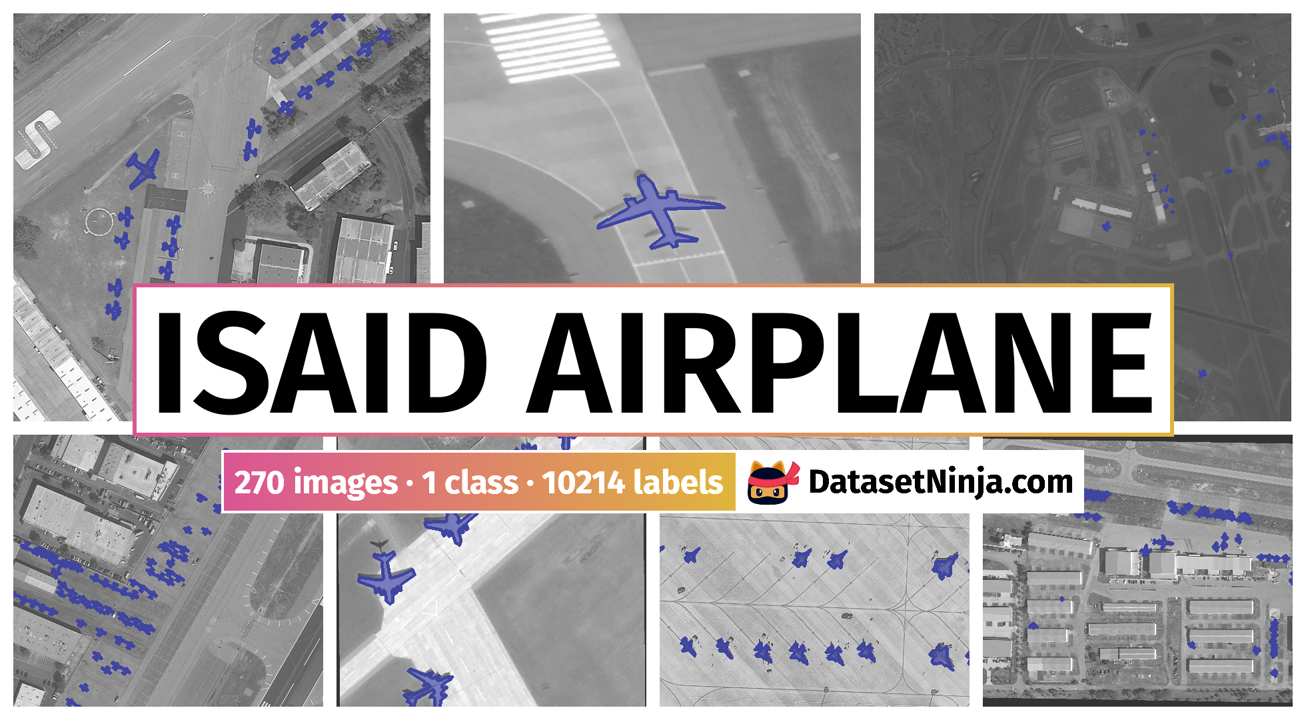
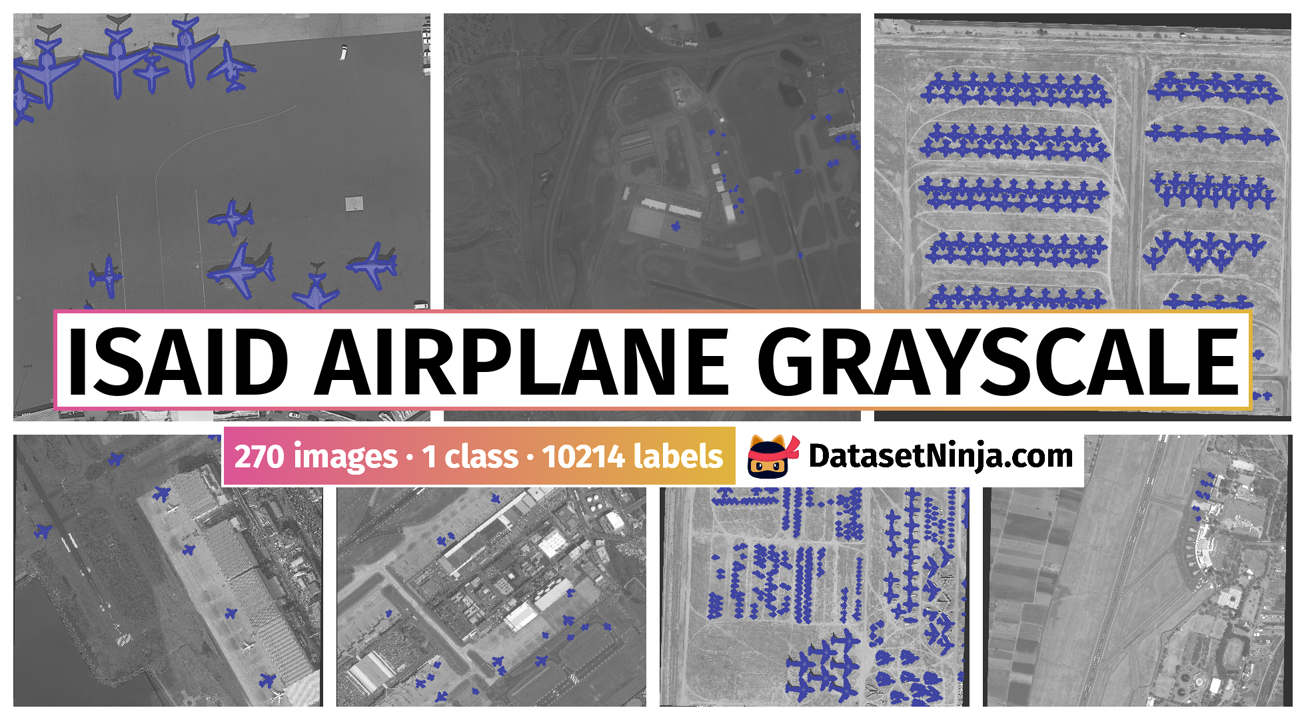
upd custom data

diff --git a/src/settings.py b/src/settings.py
@@ -2,6 +2,7 @@ from typing import Dict, List, Optional, Union
 
 from dataset_tools.templates import (
     AnnotationType,
+    Category,
     CVTask,
     Domain,
     Industry,
@@ -12,18 +13,27 @@ from dataset_tools.templates import (
 ##################################
 # * Before uploading to instance #
 ##################################
-PROJECT_NAME: str = "iSAID Airplane"
+PROJECT_NAME: str = "iSAID Airplane Grayscale"
 PROJECT_NAME_FULL: str = "iSAID Airplane Grayscale"
 
 ##################################
 # * After uploading to instance ##
 ##################################
 LICENSE: License = License.CC_BY_NC_4_0()
-APPLICATIONS: List[Union[Industry, Domain, Research]] = [Industry.AirDetection()]
+APPLICATIONS: List[Union[Industry, Domain, Research]] = [
+    Industry.Aviation(),
+    Industry.Security(),
+    Industry.Surveillance(),
+]
+CATEGORY: Category = Category.Aerial(extra=Category.Surveillance(), is_original_dataset=False)
+
 CV_TASKS: List[CVTask] = [CVTask.SemanticSegmentation()]
 ANNOTATION_TYPES: List[AnnotationType] = [AnnotationType.SemanticSegmentation()]
 
-RELEASE_YEAR: int = 2023
+RELEASE_DATE: Optional[str] = None  # e.g. "YYYY-MM-DD"
+if RELEASE_DATE is None:
+    RELEASE_YEAR: int = 2023
+
 HOMEPAGE_URL: str = "https://www.kaggle.com/datasets/romanrybalko/isaid-plane-gray"
 # e.g. "https://some.com/dataset/homepage"
 
@@ -44,10 +54,34 @@ DOWNLOAD_ORIGINAL_URL: Optional[
 CLASS2COLOR: Optional[Dict[str, List[str]]] = None
 # If specific colors for classes are needed, fill this dict (e.g. {"class1": [255, 0, 0], "class2": [0, 255, 0]})
 
-PAPER: Optional[str] = None
+PAPER: Optional[str] = "https://arxiv.org/abs/1905.12886"
 CITATION_URL: Optional[str] = None
-ORGANIZATION_NAME: Optional[Union[str, List[str]]] = None
-ORGANIZATION_URL: Optional[Union[str, List[str]]] = None
+AUTHORS: Optional[List[str]] = [
+    "Waqas Zamir, Syed",
+    "Arora, Aditya",
+    "Gupta, Akshita",
+    "Khan, Salman",
+    "Sun, Guolei",
+    "Shahbaz Khan, Fahad",
+    "Zhu, Fan",
+    "Shao, Ling",
+    "Xia, Gui-Song",
+    "Bai, Xiang",
+    "Roman Rybalko",
+]
+
+ORGANIZATION_NAME: Optional[Union[str, List[str]]] = [
+    "Inception Institute of Artificial Intelligence, UAE",
+    "Wuhan University, China",
+    "Huazhong University of Science and Technology, China",
+]
+ORGANIZATION_URL: Optional[Union[str, List[str]]] = [
+    "https://www.inceptioniai.org/en/contact-us",
+    "https://en.whu.edu.cn/",
+    "http://english.hust.edu.cn/",
+]
+
+SLYTAGSPLIT: Optional[Dict[str, List[str]]] = None
 TAGS: List[str] = None
 
 ##################################
@@ -62,10 +96,15 @@ def check_names():
 
 
 def get_settings():
+    if RELEASE_DATE is not None:
+        global RELEASE_YEAR
+        RELEASE_YEAR = int(RELEASE_DATE.split("-")[0])
+
     settings = {
         "project_name": PROJECT_NAME,
         "license": LICENSE,
-        "domains": APPLICATIONS,
+        "applications": APPLICATIONS,
+        "category": CATEGORY,
         "cv_tasks": CV_TASKS,
         "annotation_types": ANNOTATION_TYPES,
         "release_year": RELEASE_YEAR,
@@ -77,13 +116,16 @@ def get_settings():
     if any([field is None for field in settings.values()]):
         raise ValueError("Please fill all fields in settings.py after uploading to instance.")
 
+    settings["release_date"] = RELEASE_DATE
     settings["project_name_full"] = PROJECT_NAME_FULL or PROJECT_NAME
     settings["download_original_url"] = DOWNLOAD_ORIGINAL_URL
     settings["class2color"] = CLASS2COLOR
     settings["paper"] = PAPER
     settings["citation_url"] = CITATION_URL
+    settings["authors"] = AUTHORS
     settings["organization_name"] = ORGANIZATION_NAME
     settings["organization_url"] = ORGANIZATION_URL
-    settings["tags"] = TAGS if TAGS is not None else []
+    settings["slytagsplit"] = SLYTAGSPLIT
+    settings["tags"] = TAGS
 
     return settings

diff --git a/src/options.py b/src/options.py
@@ -8,7 +8,7 @@ from src.settings import ANNOTATION_TYPES
 # * Preview class to visualize in SUMMARY.md overview section
 # * Literal["ClassesPreview", "HorizontalGrid", "SideAnnotationsGrid", "Poster"]
 # * If None, then preview_class will be set automatically to "ClassesPreview"
-PREVIEW_CLASS = "HorizontalGrid"
+PREVIEW_CLASS = "Poster"
 
 IS_DETECTION_TASK: bool = None  # ? Set True if you want to visualize only bbox annotations
 if IS_DETECTION_TASK is None:

diff --git a/SUMMARY.md b/SUMMARY.md
@@ -1,9 +1,9 @@
-**iSAID Airplane Grayscale** is a dataset for semantic segmentation tasks. It is used in the air detection industry. 
+**iSAID Airplane Grayscale** is a dataset for a semantic segmentation task. It is used in the aviation, security, and surveillance industries. The dataset presented here is produced from the original dataset. Learn more on the dataset's [homepage](https://www.kaggle.com/datasets/romanrybalko/isaid-plane-gray).
+
+
 
 The dataset consists of 270 images with 10214 labeled objects belonging to 1 single class (*airplane*).
 
-Images in the iSAID Airplane dataset have pixel-level semantic segmentation annotations. Due to the nature of the semantic segmentation task, it can be automatically transformed into an object detection (bounding boxes for every object) task. All images are labeled (i.e. with annotations). There is 1 split in the dataset: *ds* (270 images). The dataset was released in 2023.
+Images in the iSAID Airplane Grayscale dataset have pixel-level semantic segmentation annotations. Due to the nature of the semantic segmentation task, it can be automatically transformed into an object detection (bounding boxes for every object) task. All images are labeled (i.e. with annotations). There are no pre-defined <i>train/val/test</i> splits in the dataset. The original dataset was released in 2023 by the [Inception Institute of Artificial Intelligence, UAE](https://www.inceptioniai.org/en/contact-us), [Wuhan University, China](https://en.whu.edu.cn/), and [Huazhong University of Science and Technology, China](http://english.hust.edu.cn/).
 
-Here is the visualized example grid with annotations:
-
-<img src="https://github.com/dataset-ninja/isaid-airplane/raw/main/visualizations/horizontal_grid.png">
+<img src="https://github.com/dataset-ninja/isaid-airplane/raw/main/visualizations/poster.png">

diff --git a/DOWNLOAD.md b/DOWNLOAD.md
@@ -1,6 +1,6 @@
-Dataset **iSAID Airplane** can be downloaded in Supervisely format:
+Dataset **iSAID Airplane Grayscale** can be downloaded in Supervisely format:
 
- [Download](https://assets.supervisely.com/supervisely-supervisely-assets-public/teams_storage/H/x/m9/uKsrSxJZdQtMD9PBbsfdATJkkxo1E6FmoN56cLOnQ8bo3D1F0nl59xsUNKhJOM1JwLQufVwT0ybMEpbhp2LhgCAfU56aahJRHyQ3D7FlE9Jbee4pAjVGlYgXqiB5.tar)
+ [Download](https://assets.supervisely.com/supervisely-supervisely-assets-public/teams_storage/3/P/rf/Zxgort8MxLShf6pd2KgFGKGJT6iCqYGiByQWTfOVhJj8qmLKewASNb9OGAKKfRTOWkOZoCxMCWztLjolWsEpidkvWIjb4x7u2e06MHYtWnwIuSLNylauTPjieSRv.tar)
 
 As an alternative, it can be downloaded with *dataset-tools* package:
 ``` bash
@@ -11,6 +11,6 @@ pip install --upgrade dataset-tools
 ``` python
 import dataset_tools as dtools
 
-dtools.download(dataset='iSAID Airplane', dst_path='~/dtools/datasets/iSAID Airplane.tar')
+dtools.download(dataset='iSAID Airplane Grayscale', dst_path='~/dtools/datasets/iSAID Airplane Grayscale.tar')
 ```
 The data in original format can be 🔗[downloaded here](https://www.kaggle.com/datasets/romanrybalko/isaid-plane-gray/download?datasetVersionNumber=1)

diff --git a/CITATION.md b/CITATION.md
@@ -1,11 +1,11 @@
-If you make use of the iSAID Airplane data, please cite the following reference:
+If you make use of the iSAID Airplane Grayscale data, please cite the following reference:
 
 ``` bibtex 
-@misc{iSAID Airplane,
-	author="TO BE FILLED MANUALLY!",
-	title="iSAID Airplane Grayscale",
+@dataset{iSAID Airplane Grayscale,
+	author={Waqas Zamir, Syed and Arora, Aditya and Gupta, Akshita and Khan, Salman and Sun, Guolei and Shahbaz Khan, Fahad and Zhu, Fan and Shao, Ling and Xia, Gui-Song and Bai, Xiang and Roman Rybalko},
+	title={iSAID Airplane Grayscale},
 	year={2023},
-	url="https://www.kaggle.com/datasets/romanrybalko/isaid-plane-gray"
+	url={https://www.kaggle.com/datasets/romanrybalko/isaid-plane-gray}
 }
 ```
 
